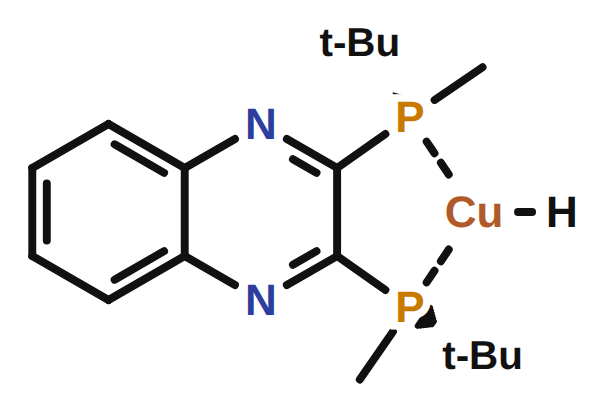
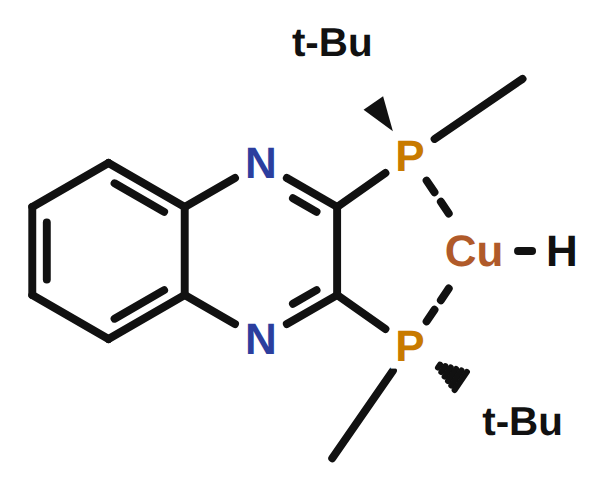
metaldepict: Josiphos bis-3,5-CF3 + spread t-Bu; QuinoxP* visible stereo
seed_from_smiles.py
  - _aryl_35(): P-aryl bearing two meta (3,5) labels, for bis-3,5-(CF3)2-phenyl.
  - _arm() gains a length parameter so a P-arm can reach further out.

gen_named.py
  - SL-J011-1 (Josiphos): P-aryls are now bis-3,5-(CF3)2-phenyl (was 4-CF3-
    phenyl); the two t-Bu of the PtBu2 are redistributed (one up, one out to the
    right, away from Cu) and extended further so they no longer crowd Cu.
  - (S,S)-QuinoxP*: CIP verified S,S (RDKit wedges the P-Me bond on one centre,
    dashes it on the other).  _extend_p_leaves() lengthens the P-Me / P-tBu arms
    so those wedges / dashes are clearly visible.

panels: named figures + per-ligand cropped PNGs regenerated (only SL-J011-1
re-optimised; the rest replayed from cache).

Claude-Session: https://claude.ai/code/session_01VEr4Hixwf6YDK6DNqMg3Gi

diff --git a/metaldepict/methods/gen_named.py b/metaldepict/methods/gen_named.py
@@ -49,12 +49,47 @@ def _frozen_H(builder, key):
     return H
 
 
+def _extend_p_leaves(H, factor=1.5):
+    """Push every leaf substituent on a P donor (methyl, t-Bu, ... -- anything not
+    in a ring and not the metal) radially further out, lengthening the P-arm so a
+    stereo wedge / dash drawn on it is clearly visible."""
+    for p in H.donors:
+        px, py = H.pos[p]
+        for n in H.adj[p]:
+            if H.label[n] == "Cu" or any(n in r for r in H.rings):
+                continue
+            comp, stack = {n}, [n]
+            while stack:
+                x = stack.pop()
+                for y in H.adj[x]:
+                    if y == p or y in comp:
+                        continue
+                    comp.add(y)
+                    stack.append(y)
+            dx = (H.pos[n][0] - px) * (factor - 1.0)
+            dy = (H.pos[n][1] - py) * (factor - 1.0)
+            for a in comp:
+                H.pos[a] = (H.pos[a][0] + dx, H.pos[a][1] + dy)
+
+
+def _quinoxp():
+    # (S,S)-QuinoxP*: two P-stereocentres (RDKit wedges the P-Me bond on one, dashes
+    # it on the other -> the S,S display).  Extend the P-Me / P-tBu arms so those
+    # wedges / dashes are clearly visible.
+    H = _smiles_H("C[P@@](C(C)(C)C)c1nc2ccccc2nc1[P@@](C)C(C)(C)C",
+                  "(S,S)-QuinoxP*")
+    _extend_p_leaves(H, 1.55)
+    return H
+
+
 def _slj011():
-    # Josiphos SL-J011-1: P(4-CF3-C6H4)2 directly on Cp, CH(CH3)-PtBu2 tether.
-    p1 = lambda s, pid: (S._aryl_para(s, pid, 205, "CF3"),
-                         S._aryl_para(s, pid, 255, "CF3"))
-    p2 = lambda s, pid: (S._arm(s, pid, -30, "t-Bu"),
-                         S._arm(s, pid, 30, "t-Bu"))
+    # Josiphos SL-J011-2 motif: P(3,5-(CF3)2-C6H3)2 directly on Cp, CH(CH3)-PtBu2
+    # tether.  The two bis-3,5-CF3 aryls fan down; the two t-Bu fan up-and-right
+    # (well separated, away from Cu) and reach a little further out.
+    p1 = lambda s, pid: (S._aryl_35(s, pid, 200, "CF3"),
+                         S._aryl_35(s, pid, 268, "CF3"))
+    p2 = lambda s, pid: (S._arm(s, pid, 98, "t-Bu", length=1.5),
+                         S._arm(s, pid, 30, "t-Bu", length=1.5))
     return S.build_josiphos("SL-J011-1", psub_p1=p1, psub_p2=p2)
 
 
@@ -68,8 +103,7 @@ def named():
         "(c2ccccc2)CC[C@H]1c1ccccc1", "(S,S)-Ph-BPE")
     out["DM-SEGPHOS"] = _smiles_H(
         G.ligand_smiles(G.BACKBONES["segphos"], "c1cc(C)cc(C)c1"), "DM-SEGPHOS")
-    out["(S,S)-QuinoxP*"] = _smiles_H(
-        "C[P@@](C(C)(C)C)c1nc2ccccc2nc1[P@@](C)C(C)(C)C", "(S,S)-QuinoxP*")
+    out["(S,S)-QuinoxP*"] = _quinoxp()
     out["(R,R)-Me-DuPhos"] = _smiles_H(
         "C[C@@H]1CC[C@@H](C)[P]1c1ccccc1[P]1[C@H](C)CC[C@H]1C", "(R,R)-Me-DuPhos")
     out["SL-J011-1"] = _frozen_H(_slj011, "SL-J011-1")

diff --git a/metaldepict/methods/seed_from_smiles.py b/metaldepict/methods/seed_from_smiles.py
@@ -307,9 +307,9 @@ def build_josiphos(name="josiphos", psub_p1=None, psub_p2=None):
     return sc, name, {"exempt": frozen, "extra_rigid": [frozen]}
 
 
-def _arm(sc, pid, deg, label):
+def _arm(sc, pid, deg, label, length=1.05):
     p = sc.atoms[pid].pos
-    tip = polar(p, deg, 1.05 * L)
+    tip = polar(p, deg, length * L)
     tid = sc.atom(tip, label=label)
     sc.bond(pid, tid, order=1)
     return tid
@@ -325,6 +325,20 @@ def _aryl_para(sc, pid, deg, para_label, kek=0):
     sc.bond(pid, ids[0], order=1)
     _MT.text_arm(sc, ids[3], _MT.out_angle(sc, center, ids[3]), para_label,
                  length=1.0, fontscale=0.9)
+    return ids
+
+
+def _aryl_35(sc, pid, deg, label, kek=0):
+    """Place a phenyl ring on P carrying TWO meta (3,5) substituent labels --
+    e.g. a bis-3,5-(CF3)2-phenyl P-aryl."""
+    p = sc.atoms[pid].pos
+    ipso = polar(p, deg, L)
+    center = polar(ipso, deg, _MT.HEX_R)
+    ids = _MT.place_hexagon(sc, center, deg + 180.0, kek)
+    sc.bond(pid, ids[0], order=1)
+    for m in (ids[2], ids[4]):                    # the two meta (3 and 5) carbons
+        _MT.text_arm(sc, m, _MT.out_angle(sc, center, m), label,
+                     length=1.0, fontscale=0.9)
     return ids
 
 
